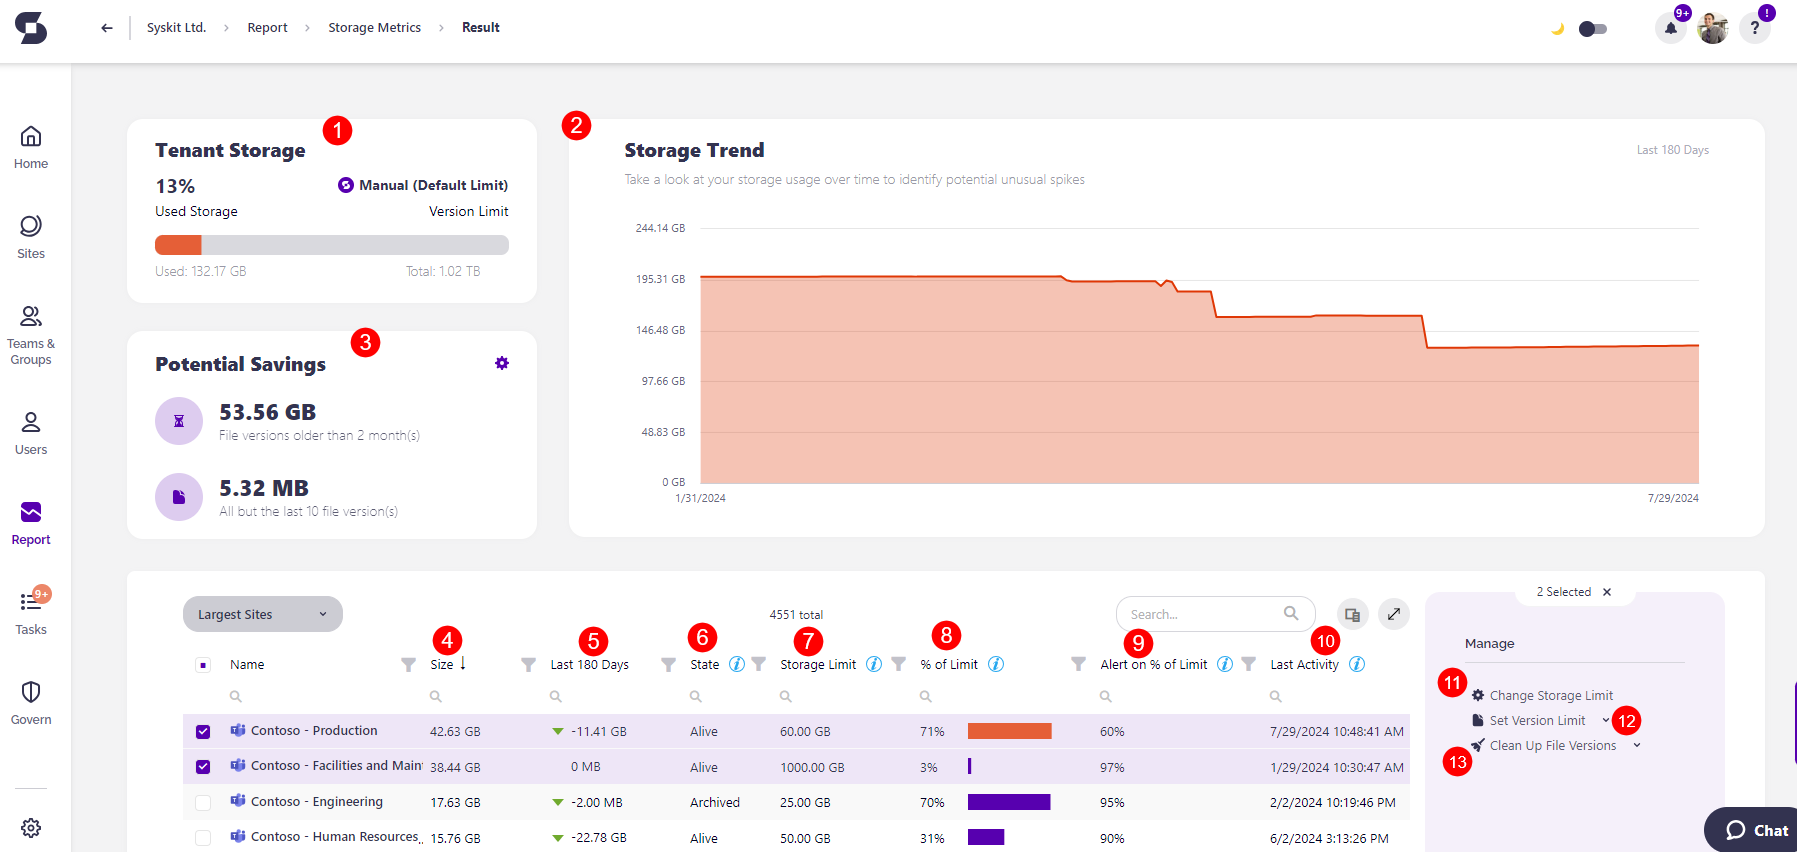
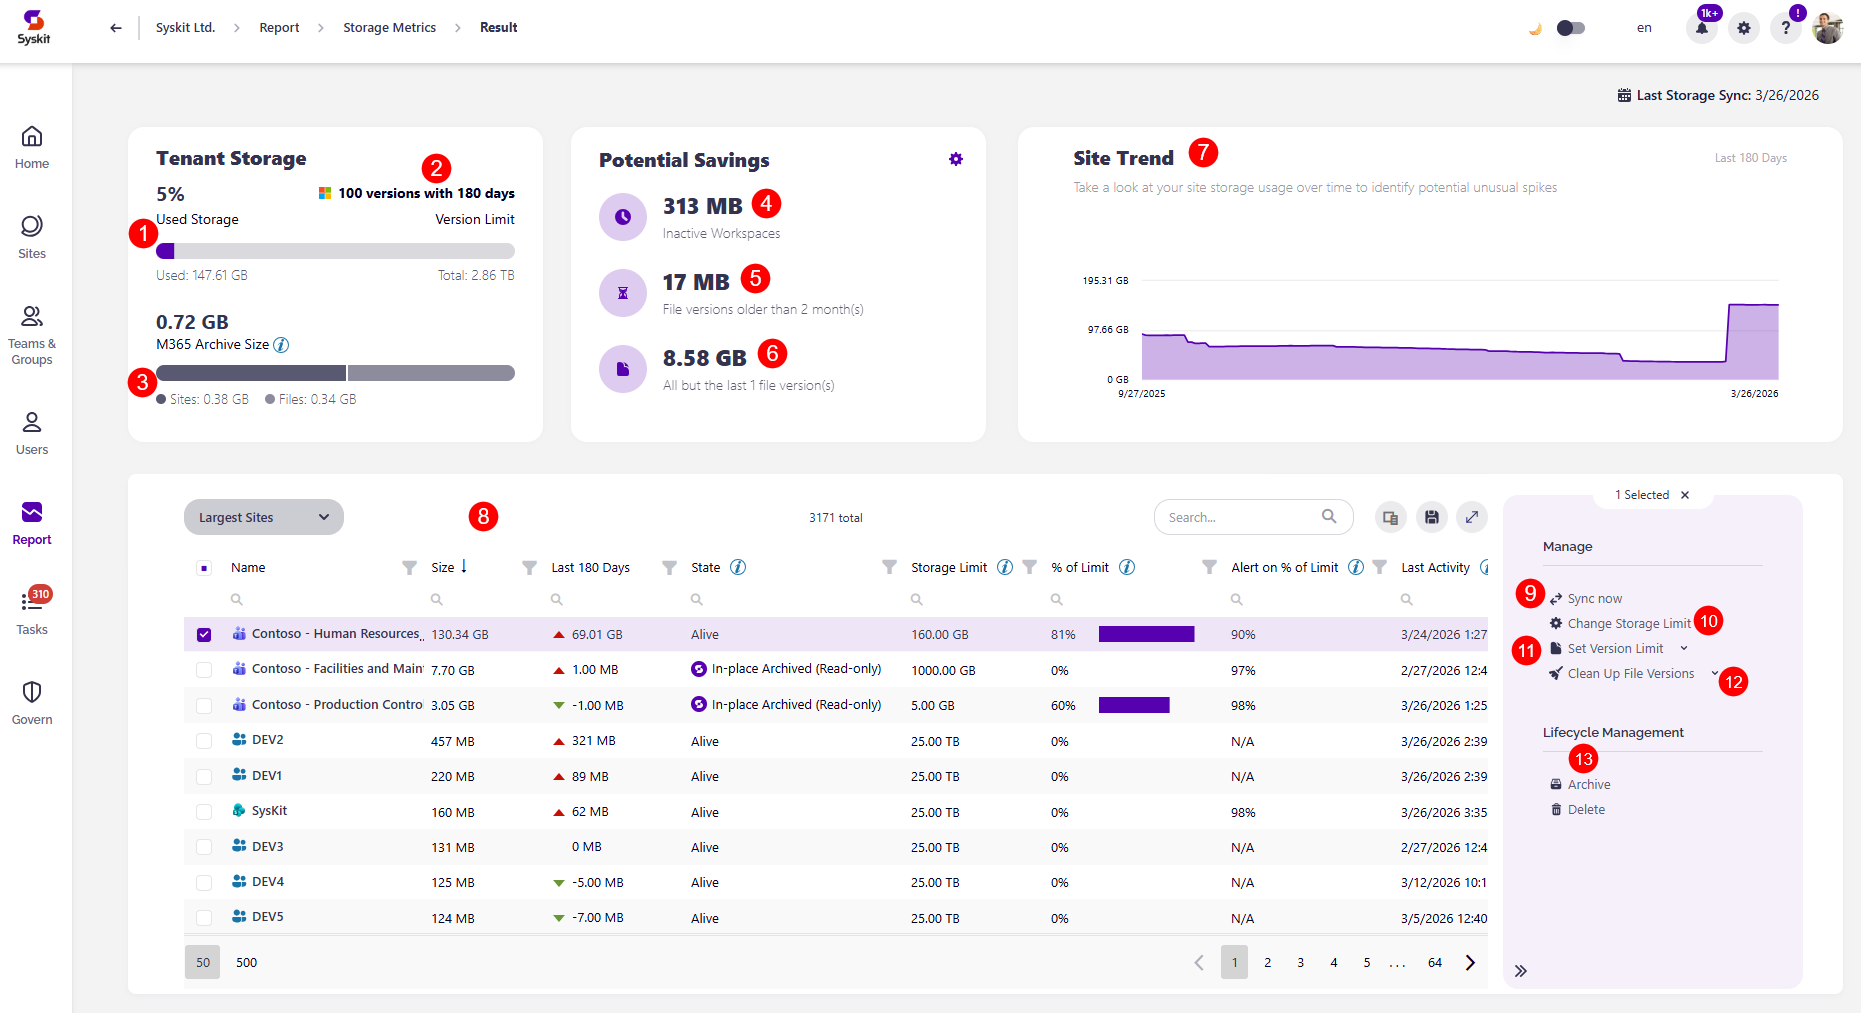
File-Level Archive docs

diff --git a/docs/storage-management/free-up-storage.md b/docs/storage-management/free-up-storage.md
@@ -5,7 +5,7 @@ description: This article explains how to free up your storage on SharePoint sit
 # Free Up Storage
 
 :::info
-**Please note!** If a certain site **has a hold or retention policy applied**, the Clean Up Storage action fails for that workspace, and storage is not freed. If a certain file has a hold or retention policy applied, that file is not cleaned up or deleted. 
+**Please note!** If a certain site **has a hold or retention policy applied**, the Clean Up Storage action fails for that workspace, and storage is not freed. If a file has a hold or retention policy applied, it is not cleaned up or deleted. 
 :::
 
 The more your content grows over time, the harder it becomes to manage large amounts of data in your environment. 
@@ -20,6 +20,7 @@ Regularly cleaning up older file versions is the best way to optimize performanc
 In Syskit Point, there are several ways you can free up space and complete the cleanup action. In this article, you'll find details on the:
 
 * [Delete Files Action](#delete-files)
+* 
 * [Clean Up Action on Storage Metrics report](#clean-up-action-on-site-storage-metrics-report)
 * [Clean Up Action on Site Storage Metrics report](#clean-up-action-on-site-storage-metrics-report)
 * [Clean Up Action on File Storage Details report](#clean-up-action-on-file-storage-details-report)
@@ -27,9 +28,10 @@ In Syskit Point, there are several ways you can free up space and complete the c
 
 ## Delete Files
 
-The Delete Files action allows you to delete files and send them to the site's recycle bin. You can access it by following these steps:
+The Delete Files action allows you to delete files and send them to the site's recycle bin. You can complete the action by following these steps:
 
 * **Go to Reports > Storage > Storage Metrics report**
+  * Alternatively, you can also access the report by clicking the **View All** button on the **Storage Dashboard tile**
 * On the report, **click the SharePoint site** you want to delete files for
   * This opens the **Site Storage Metrics report**
 * On the Site Storage Metrics report, **select the file you want to remove (1)**
@@ -49,14 +51,108 @@ The **Open Recycle Bin action** opens the recycle bin for the SharePoint site yo
 You can access it by following these steps:
 
 * **Go to Reports > Storage > Storage Metrics report**
+  * Alternatively, you can also access the report by clicking the **View All** button on the **Storage Dashboard tile**
 * On the report, **click the SharePoint site** for which you want to access deleted files
   * This opens the **Site Storage Metrics report (1)**
 * **Click the Open Recycle Bin (2)** action, which opens the SharePoint site's recycle bin
 
 ![Site Storage Metrics Report- Open Recycle Bin](../../static/img/optimize-storage-site-storage-metrics-recycle-bin.png)
 
+## Archive Files
+
+:::info
+
+**Please note** that the use of this feature depends on a Microsoft 365 functionality that is currently available in Public Preview.
+
+:::
+
+The Archive Files action lets you move inactive or unused SharePoint files to cold storage by using [Microsoft 365 Archive](https://learn.microsoft.com/en-us/microsoft-365/archive/archive-setup?view=o365-worldwide). This helps you reduce active SharePoint storage usage while keeping files available for search, compliance, and future access. 
+
+Archived files are not removed from SharePoint; they remain visible in the document library, marked with an archive icon, and are searchable through Microsoft 365. However, the files must be **reactivated** before they can be opened and **read**. 
+
+When a file is archived, it:
+* Is moved to a cold storage tier within SharePoint
+* No longer consumes active SharePoint storage quota
+* Retains metadata, permissions, and compliance policies
+
+:::info
+
+**Please note**: Before archiving a file, you can also complete the Clean Up File Versions action to trim the unwanted file versions from the file you plan to archive. This helps reduce the number of versions stored in the archive, as by default, the Microsoft 365 Archive retains all file versions. File versions can still be cleaned up even when a file is archived. 
+
+:::
+
+You can archive a file by following these steps:
+
+* **Go to Reports > Storage > Storage Metrics report**
+  * Alternatively, you can also access the report by clicking the **View All** button on the **Storage Dashboard tile**
+* On the report, **click the SharePoint site** you want to archive files for
+  * This opens the **Site Storage Metrics report**
+* On the Site Storage Metrics report, **select the file you want to archive (1)**
+* **Click the Archive Files (2)** action, which opens the Archive Files confirmation modal
+* On the Archive Files confirmation modal, **click the Archive button (3)** to confirm your decision and archive the file
+
+:::info
+
+**Please note**: Before archiving a file, you can complete the Clean Up File Versions action to trim unwanted file versions. This helps reduce the number of versions stored in the archive, as by default, the Microsoft 365 Archive retains all file versions. **File versions can still be cleaned up even when a file is archived**. 
+
+:::
+
+
+![Site Storage Metrics Report- Archive Files](../../static/img/optimize-storage-site-storage-metrics-archive.png)
+
+![Site Storage Metrics Report- Archive Files](../../static/img/optimize-storage-site-storage-metrics-archive-confirmation.png)
+
+:::info
+
+**Please note the following**: 
+* Files with **retention labels can be archived and retention policies continue to apply**
+* The **Archive Files action** is only available for SharePoint sites, **OneDrive is not supported**
+* **Some file types cannot be archived** (e.g. OneNote, SharePoint pages) (ovaj info je sa MS docsa pa ne znam jel zelimo to tu naglasavat) 
+
+:::
+
+Once a file is **archived**, it is placed into cold storage and can be reactivated if the need arises.
+
+
+### Reactivate Archived Files
+
+The **Reactivate Recycle Bin action** lets you reactivate archived files to make them accessible again. 
+
+* Files archived within the last 7 days can be reactivated instantly
+* Files archived more than 7 days ago might take up to 24 hours to become available again
+
+Workspace owners (end users?) can restore files through Microsoft 365 directly, while Administrators can reactivate files directly from Syskit Point. 
+
+You can access it by following these steps:
+
+* **Go to Reports > Storage > Storage Metrics report**
+  * Alternatively, you can also access the report by clicking the **View All** button on the **Storage Dashboard tile**
+* On the report, **click the SharePoint site** for which you want to reactivate archived files
+  * This opens the **Site Storage Metrics report**
+* **Select the Archived Files view (1)** from the dropdown filter 
+* **Select the archived file (2)** you want to reactivate
+* **Click the Reactivate Files button (3)** located on the right side of the report
+* The Reactivate Archived Files modal opens, where you can **click Reactivate (5)** to reactivate the file
+
+![Site Storage Metrics Report- Open Recycle Bin](../../static/img/optimize-storage-site-storage-metrics-reactivate-file.png)
+
+![Site Storage Metrics Report- Open Recycle Bin](../../static/img/optimize-storage-site-storage-metrics-reactivate-file-confirmation.png)
+
+
+:::info
+
+**Please note**: After reactivating the file, it can take up to 24 hours for the file to become active, with the state of the file marked as Reactivating until then. 
+
+:::
+
 
 ## Clean Up Action on Storage Metrics Report
+
+:::info
+
+**Please note**: The Clean Up actions can be completed even on files that have been archived.
+
+:::
 
 **The Storage Metrics report** is where you can complete a bulk cleanup action. The report can be generated in the following way:
  
@@ -122,7 +218,7 @@ Once you click the **Clean Up button** on the File Version Cleanup tile or the *
 
 ## Clean Up Action on File Storage Details Report
 
-You can complete the cleanup on the File Storage details screen as well. To navigate there, repeat the above steps until you reach the Site Storage Metrics report. 
+You can also complete the cleanup on the File Storage details screen. To navigate there, repeat the above steps until you reach the Site Storage Metrics report. 
 
 From there:
 

diff --git a/docs/storage-management/storage-management-overview.md b/docs/storage-management/storage-management-overview.md
@@ -18,7 +18,7 @@ Here's why you should maintain an active approach to your Storage Management:
 
 ## Storage Management in Syskit Point
 
-To start with your Storage Management, make sure it's configured based on your preferences within Syskit Point.
+To start with your Storage Management, make sure it's configured according to your preferences in Syskit Point.
 
 That's where you can set up certain metrics that help you clean up your storage, such as how many versions of a file you want to keep or how old files should be before you delete them. 
 
@@ -29,36 +29,49 @@ Here's how to get started with your storage management in Syskit Point:
   * Next, it's time to configure your [Tenant Storage Limit Policy](../governance-and-automation/automated-workflows/tenant-storage-admin.md). This policy is used to detect and monitor your storage, but if you choose to, you can also enable task delegation.  
  * Once the policy has been edited based on your preferences, you can [take a look at the Tenant Storage Security & Compliance Check article](../governance-and-automation/security-compliance-checks/tenant-storage.md) to see all the details and information you can get from this policy being detected in your environment.
 
-Now that we've covered how to begin utilizing your storage management within Syskit Point let's look into the valuable information and actions that can be taken from the Storage Metrics reports.
+Now that we've covered how to begin utilizing your storage management within Syskit Point, let's look into the valuable information and actions that can be taken from the Storage Metrics reports.
 
 ### The Storage Metrics Reports
 
 The [Storage Metrics report](../storage-management/storage-reports.md#storage-metrics) is available in the latest Syskit Point version and helps you:
-* **Discover the percentage of used storage in your tenant (1)**
-* **Observe the trend of your storage usage over time (2)**
-* **See the Potential Savings for how much storage you can save(3)**
-  * You can Cleanup File Versions older than X months or All but the last X number of file versions 
 
-You can also find the most important storage-related information for the largest sites:
-* **Size (4)** - storage used up by the SharePoint site
-* **Last 180 Days (5)**; shows the storage trend for a site during this period of time along with an arrow that signifies the growth or reduction, and hovering above it gives you a percentage by how much.
-   * By default, the Last 180 Days column is shown on the report but the following views are also available: **Largest Growth in last 7 days, Largest Growth in last 30 days, Largest Growth in last 90 days**.
-* **State (6)** - current state of the site 
-* **Storage Limit (7)**
+* **Get an overview of your tenant storage** with insight into:
+  * **The percentage of used storage in your tenant (1)** 
+  * **The version limit (2)** for the workspace, if one is applied
+  * If activated, **the size of your Microsoft 365 Archive storage (3)**, with details on how much is spent of archived sites compared to archived files
+* **See the Potential Savings for how much storage you can save** by:
+  * Cleaning up **Inactive Workspaces (4)**
+  * Cleaning up **file versions older than (5)** X months 
+  * Cleaning up **everything but the last (6)** X number of file versions 
+* **Observe the trend of your storage usage over time (7)**
+
+You can also find important storage-related information for the largest sites in the **columns(8)** for the report:
+* **Name** - the name of the workspace
+* **Size** - storage used up by the SharePoint site
+* **Last 180 Days** - shows the storage trend for a site during this period of time along with an arrow that signifies the growth or reduction, and hovering above it gives you a percentage by how much
+   * By default, the Last 180 Days column is shown on the report but the following views are also available: **Largest Growth in last 7 days, Largest Growth in last 30 days, Largest Growth in last 90 days**
+* **State** - current state of the workspace 
+* **Storage Limit**
     * Storage limit defined per site
     * By default, set in SharePoint to 25TB if not otherwise defined manually for the observed site; 25TB represents the pool of total available storage, although the actual size of available storage can be smaller, depending on the number of purchased licenses
     * Storage Limit for soft deleted sites is set to = KB
-* **% of Limit (8)** - shows the percentage of the site's size in the defined site storage limit
-* **Alert on % of Limit (9)** - shows the site's defined percentage limit when email notifications are sent to owners
-* **Last Activity (10)** - shows the date and time of the site's last activity
+* **% of Limit** - shows the percentage of the site's size in the defined site storage limit
+* **Alert on % of Limit** - shows the site's defined percentage limit when email notifications are sent to owners
+* **Last Activity** - shows the date and time of the site's last activity
+* **Version Limit** - shows which if any version limits are applied to the workspace
+  * [For more details, take a look at the Storage Versioning Limits article.](../storage-management/versioning-limits.md)
+* **Last Storage Sync** - shows when the last storage sync for the workspace was performed
+* **Storage Sync Status** - shows the current status of the storage sync for the workspace
 
 Selecting one or more sites provides the following actions:
-  * **Change Storage Limit (11)** - lets you change the storage limit for sites.
+  * **Sync now (9)** - lets you initiate a storage sync for that workspace
+  * **Change Storage Limit (10)** - lets you change the storage limit for sites
     * [For more details on how to set different storage limits, take a look at the Limit Storage Usage article.](../storage-management/limit-storage-usage.md)
-  * **Set Version Limit (12)** - lets you set up a limit on the file versions kept per site based on your settings and preference.
+  * **Set Version Limit (11)** - lets you set up a limit on the file versions kept per site based on your settings and preference
     * [For more details how to set up versioning limits, take a look at the Storage Versioning Limits article.](../storage-management/versioning-limits.md)
-  * **Clean Up File Versions (13)** - lets you clean up old file versions, several file versions, or all but the last file version.
+  * **Clean Up File Versions (12)** - lets you clean up old file versions, several file versions, or all but the last file version
     * [For more details on all of the ways you can complete the Clean Up File action, take a look at the Free Up Storage article.](../storage-management/free-up-storage.md)
+  * **Lifecycle Management actions for the workspace (13)**: Archive and Delete
 
 Once you detect the largest sites with the help of the Storage Metrics report, you can **click the name of the site** to open the site-specific Storage Metrics report.
 

diff --git a/docs/storage-management/storage-reports.md b/docs/storage-management/storage-reports.md
@@ -21,7 +21,7 @@ You can save custom views for your reports based on your needs and preferences. 
 
 The Storage Metrics report displays your tenant-wide storage consumption over time. &#x20;
 
-This report lets you check if you are at risk of running out of storage so that you can decrease clutter by optimizing or expanding your storage capability.
+This report lets you check if you are at risk of running out of storage. You can then decrease clutter by optimizing or expanding your storage capability.
 
 ### Generate Storage Metrics Report
 
@@ -33,9 +33,17 @@ This report lets you check if you are at risk of running out of storage so that 
 
 Once the report is generated successfully, the following information is available:
 
-* **The Tenant Storage tile** on the left side shows the percentage of used storage out of the total available storage for your tenant.
-* **The Potential Savings tile** shows how much you can save by cleaning up File versions older than X months or All but the last X number of file versions.
+* **The Tenant Storage tile** on the left side shows:
+  * **The percentage of used storage** out of the total available storage for your tenant.
+  * **The version limit** for the workspace, if one is applied.
+  * If activated, **the size of your Microsoft 365 Archive storage**, with details on how much is spent of archived sites compared to archived files 
+
+* **The Potential Savings tile shows how much storage you can save** by:
+  * Cleaning up **Inactive Workspaces (4)**
+  * Cleaning up **file versions older than (5)** X months 
+  * Cleaning up **everything but the last (6)** X number of file versions 
   * You can **set your values for X** through Settings > Storage Management, which you can quickly access by **clicking the Settings button in the top right corner of the tile**
+
 * **The Site Trend chart** shows a graph that depicts your storage usage across time over the last 180 days.
 
 The following data will be displayed in the columns:
@@ -51,7 +59,10 @@ The following data will be displayed in the columns:
 * **% of Limit**; shows the percentage of how close to the storage limit your site is.
 * **Alert on % of Limit**; shows the percentage at which you are alerted of being close to your storage limit.
 * **Last Activity**; shows the date the last activity on the site happened.
-* **Version Limit**; shows the version limit applied to the workspace
+* **Version Limit**; shows the version limit applied to the workspace.
+  * [For more details, take a look at the Storage Versioning Limits article.](../storage-management/versioning-limits.md)
+* **Last Storage Sync**; shows when the last storage sync for the workspace was performed.
+* **Storage Sync Status**; shows the current status of the storage sync for the workspace.
 
 :::info
 **Please note:** If the **Last Activity column is empty** for a workspace, it means that the last activity for that workspace was performed before Syskit Point was deployed. Additionally, the activity is older than the retention period for the Microsoft 365 audit logs and can no longer be collected and processed by Syskit Point.
@@ -91,14 +102,19 @@ Once the Site Storage Metrics report is clicked, the Selection step opens, with 
 
 On the Site Storage Metrics report for the individual workspace, the following information can be found:
 
-* **The Site Trend chart** shows a graph that depicts your site storage usage over time in the last 180 days.
-* **The Site Storage Usage tile** on the right side shows the percentage of used storage out of the total number of available storage for your site.
+* **The Site Storage Usage tile** with the **name of the workspace** shows: 
+  * **The percentage of used storage** and archived storage (if you have Microsoft 365 Archive), out of the total amount of available storage for your workspace.
+  * **The version limit** for the workspace, if one is applied
+
 * **The File Type tile** shows a chart and list of the types of files on your site and the amount of storage each file takes up.
   * The File types tracked are the following:
     * **Videos**: mp4, mov, wmv, avi, avchd, webm
     * **Images**: jpeg, jpg, png, gif, raw, psd
     * **Office**: doc, docx, rtf, xls, xlsx, ppt, pptx, pdf, txt, one
     * **Other**: any extensions not categorized in one of the above groups
+
+* **The Site Trend chart** shows a graph that depicts your site storage usage over time in the last 180 days.
+
 * **The File Version Cleanup tile** shows the amount of space you can free up by cleaning up the outdated versions of the site.
 
 The Largest Files & Folders section of the report is, by default, set as a **Files Only view**, which means it shows a list of all files on the site. You can change the report to be seen as the **Site Structure view** by clicking the **Show by:** button located on the top right side of the Largest Files & Folders part of the report.
@@ -132,7 +148,7 @@ The following data will be displayed in the columns:
 **The File Storage Details Report** is only available in the Governance plan or above. See the [pricing page](https://www.syskit.com/products/point/pricing/) for more details.
 :::
 
-The File Storage Details report displays all of the versions of the selected file with the most important information about each of the versions.
+The File Storage Details report displays all of the versions of the selected file, with the most important information about each of the versions.
 
 The report lets you check on the amount of storage used by files in your tenant. This makes it easier to track and organize your content on specific sites to optimize storage.
 
